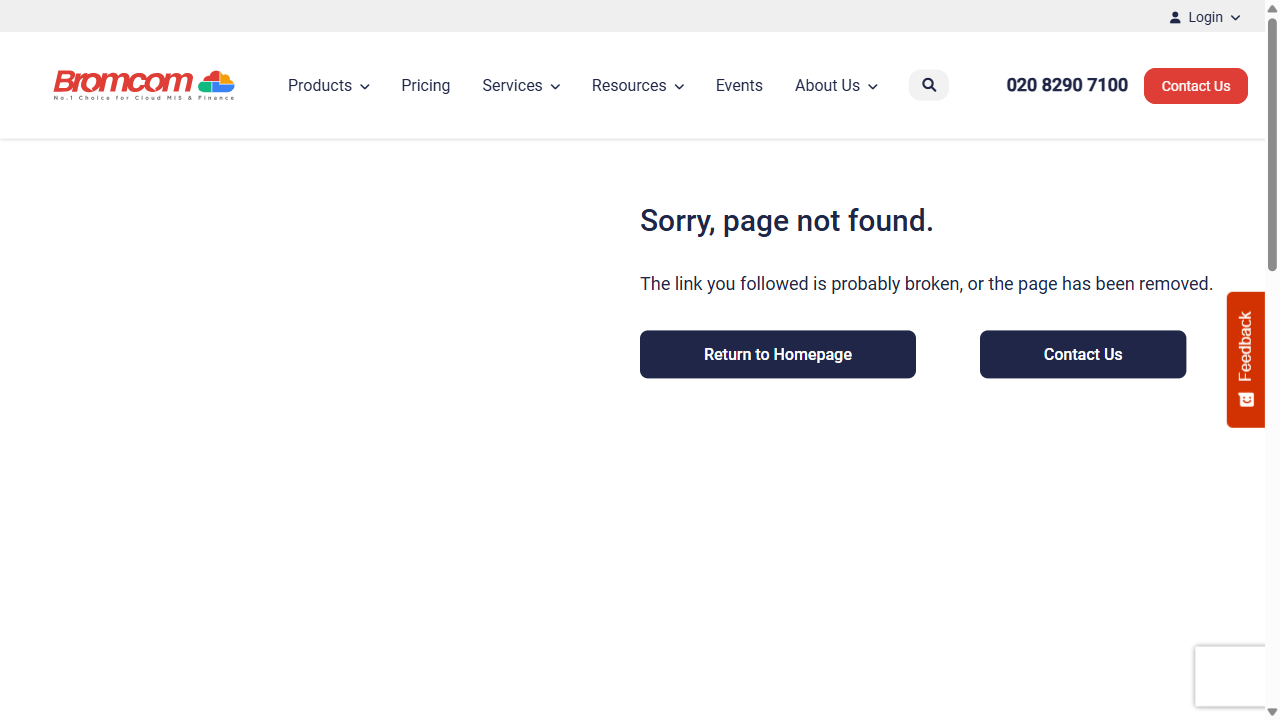
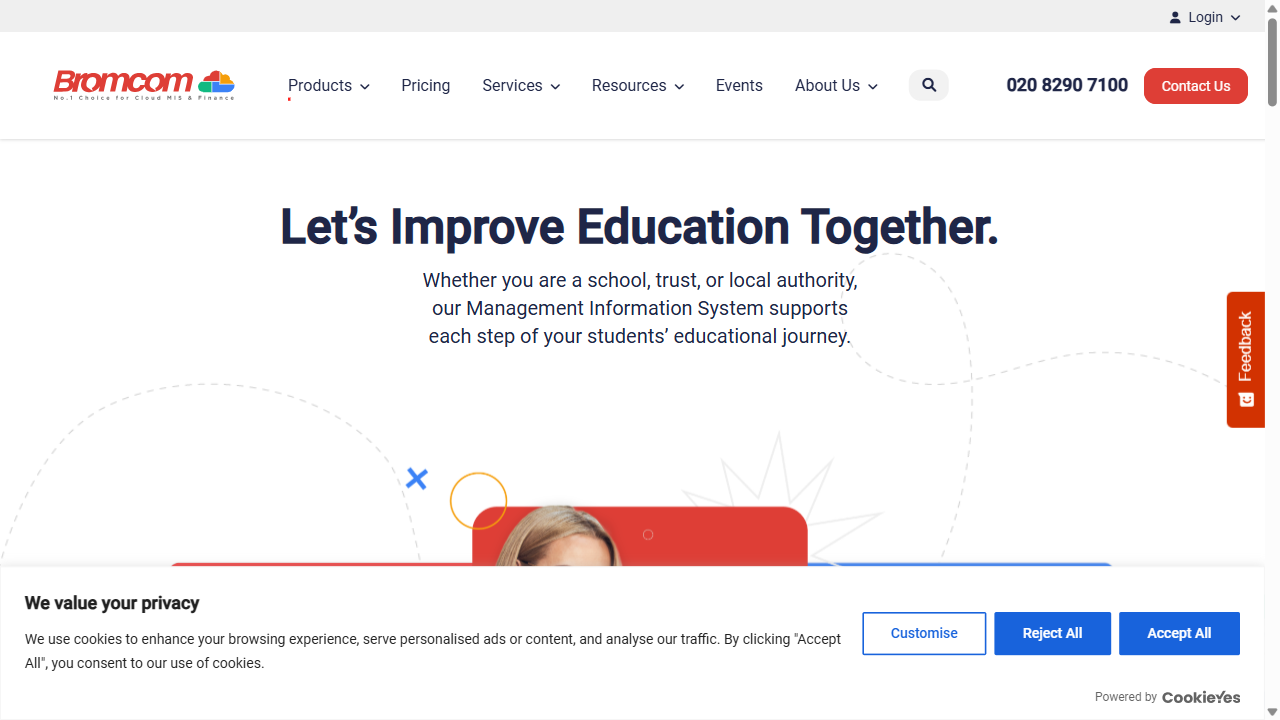
update latest code

diff --git a/PageObjects/BromcomHomeProduct.ts b/PageObjects/BromcomHomeProduct.ts
@@ -1,25 +1,28 @@
-import { expect, Page,  } from "@playwright/test";
+import { expect, Page } from "@playwright/test";
 
-export class BromcomHomeProduct{
-    readonly page;
-    constructor(page:Page){
-        this.page = page;
+export class BromcomHomeProduct {
+  readonly page;
+  constructor(page: Page) {
+    this.page = page;
+  }
 
-    }
+  private readonly productsOption = `//a[normalize-space(text())='Products']`;
+  private readonly primaryoption = `(//span[@class='text-black' and normalize-space(text())='Primary'])[1]`;
+  private readonly primaryMISoption = `//a[normalize-space(text())='Primary School MIS']`;
+  async bromcomPrimaryMIS() {
+    await this.page.hover(this.productsOption);
+    await this.page.hover(this.primaryoption);
+    const URL = this.page.url();
+    console.log(URL);
+    expect(URL).toBe("https://bromcom.com/");
 
-    private readonly productsOption=`//a[normalize-space(text())='Products']`;
-    private readonly primaryoption = `(//span[@class='text-black' and normalize-space(text())='Primary'])[1]`;
-    private readonly primaryMISoption = `//a[normalize-space(text())='Primary School MIS']`;
-    async bromcomPrimaryMIS(){
-        await this.page.hover(this.productsOption);
-        await this.page.hover(this.primaryoption);
-        await this.page.click(this.primaryMISoption);
+    await this.page.click(this.primaryMISoption);
+    await this.page.waitForTimeout(500);
+  }
 
-    }
+  async verifyNavigationUrl() {
+    console.log(await this.page.title());
 
-    async verifyNavigationUrl(){
-        expect(this.page.url()).toBe(`https://bromcom.com/primary-schoolmis`);
-    }
-
-
+    console.log("sucess");
+  }
 }

diff --git a/features/step_definitions/bromcomStep.ts b/features/step_definitions/bromcomStep.ts
@@ -1,4 +1,4 @@
-import { Given, Then, When } from "@cucumber/cucumber"; 
+import { Given, setDefaultTimeout, Then, When } from "@cucumber/cucumber"; 
 
 Given('a user navigates to Bromcom application', async function() {
     await bromcomHome.navigateToBromcomHome();
@@ -9,7 +9,7 @@ When('user hover on Products option and select Primary MIS option', async functi
   // Write code here that turns the phrase above into concrete actions
 })
 
-Then('user lands on Bromcom Primary MIS page successfully', async function() {
+Then('user lands on Bromcom Primary MIS page successfully',{timeout:10*1000}, async function() {
     await bromcomHomeProduct.verifyNavigationUrl();
   // Write code here that turns the phrase above into concrete actions
 })

diff --git a/features/support/hooks.ts b/features/support/hooks.ts
@@ -3,11 +3,12 @@
   import { POMmanager } from '../../PageObjects/POMmanager';
 
   let browser:any;    //dynamically typed variable.
+
   setDefaultTimeout(60 * 1000); // 60 seconds
-  Before("@web",async function({pickle}){
+  Before(async function({pickle}){
     console.log("before hooks Test started");
       browser = await chromium.launch({headless:false,slowMo:200});  //slows down the execution by 200ms
-        const context = await browser.newContext();
+        const context = await browser.newContext({viewport:{width:1280,height:720}});
         this.page  = await context.newPage();
         this.poManager = new POMmanager(this.page);
         console.log('Scenario Name: '+pickle.name);
